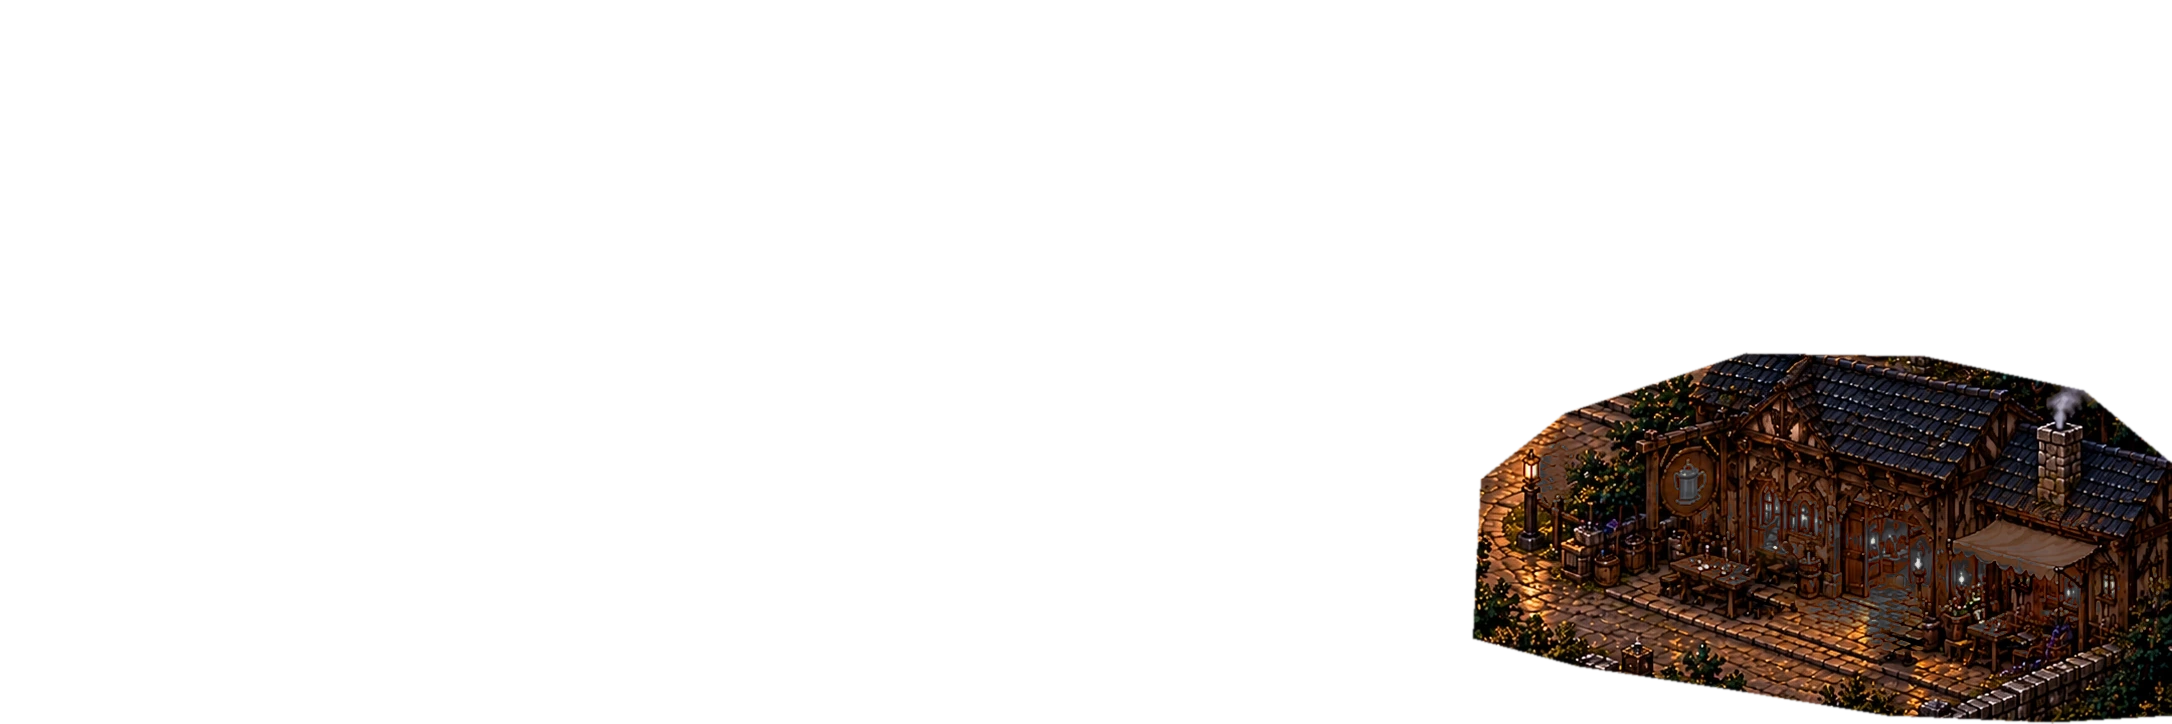
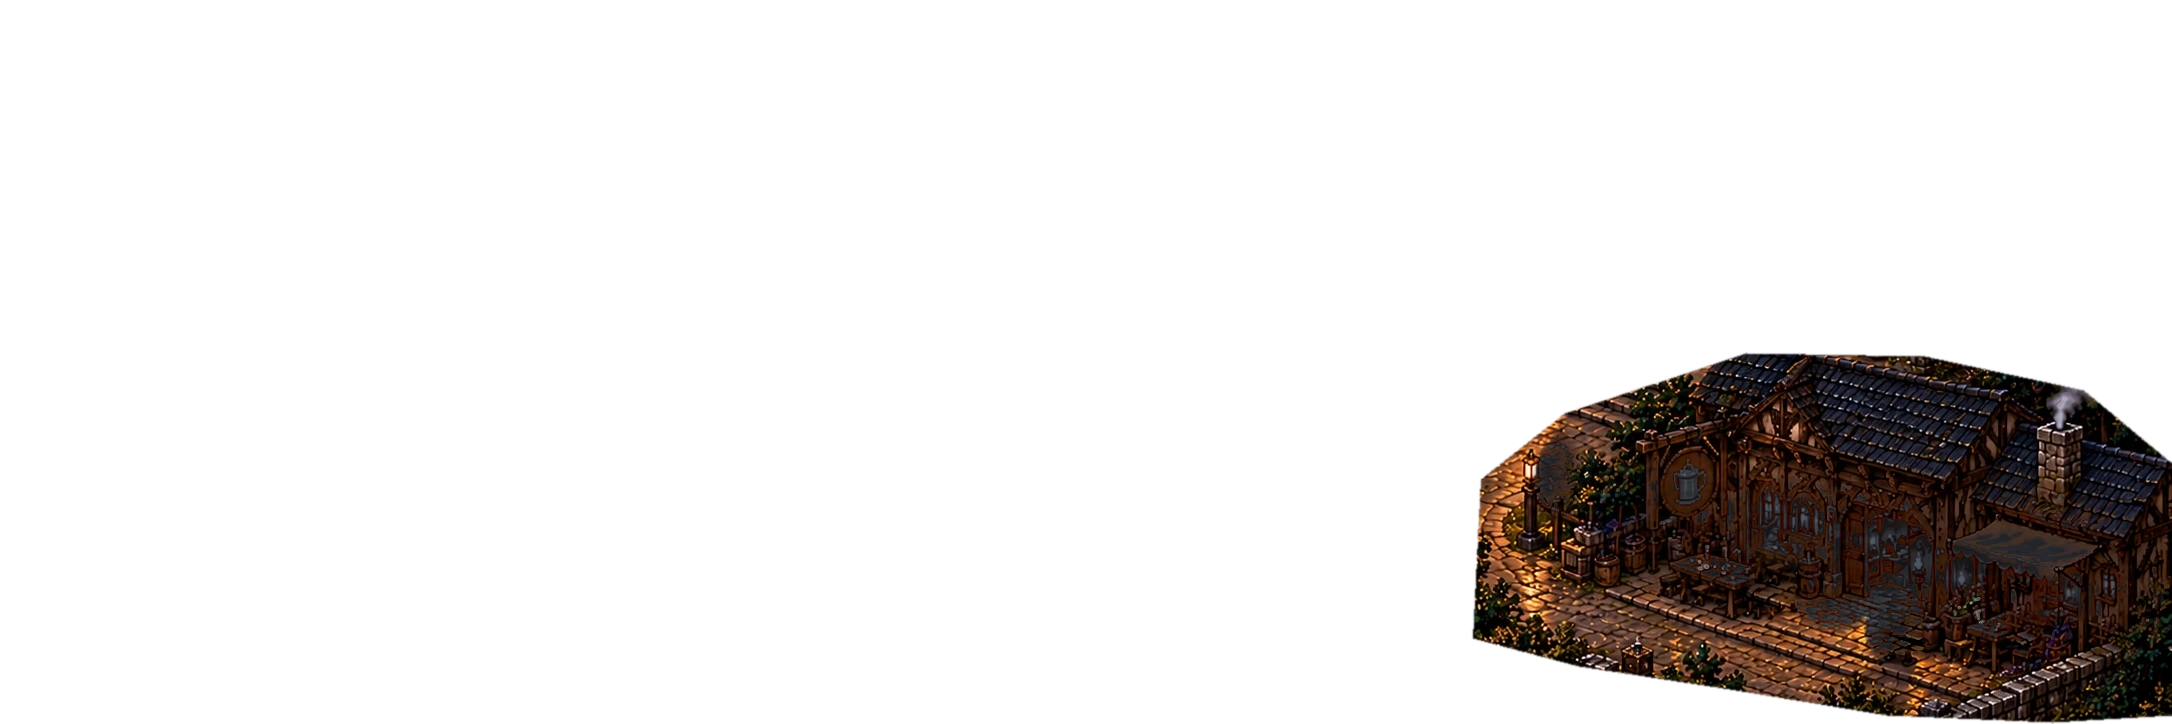
Refuge: unify Active/Vacant building artwork and progression (0.0.130)
* Introduce one shared Active/Vacant building visual state definition

* Render all active/vacant buildings with shared state and authored plate layers

* Extinguish blue/cyan and white emissive lighting through the shared painted vacancy pipeline

* Set up one-shot CI rendering and commit for native building artwork

* Run native vacancy-art regeneration from the shared pipeline

* Validate consistent dormant/active town layers and versioned artwork on mobile

* Rebase generated artwork checkpoint on current branch to avoid overwriting concurrent commits

* Use canonical Active/Vacant names in shared building state

* Apply shared Active/Vacant state to all town door interactions

* Only active buildings receive highlighted hover/focus styling

* Share artwork alignment and dormant layer styles across all town buildings

* Verify progressive unlocks independently switch painted building states

* Document unified town Active/Vacant states, authored art pipeline and acceptance gates

* Bump WyrmForge to 0.0.130 for shared building visual state system

* Document shared active/vacant town visuals in prototype 0.0.130

* Regenerate locked building art against final shared visuals and workflow

* art: checkpoint shared dormant building plates

* Remove one-shot native-art checkpoint workflow after committing generated assets

* Remove glowing Nexus potion stock by reconstructing dormant counter artwork

* Temporarily enable regenerated Nexus prop-removal art checkpoint
[…]

Changed region(s): [[0.7403, 0.6381, 1.0, 0.9116], [0.7095, 0.6077, 0.7403, 0.6989]]

diff --git a/src/Wyrmforge.Presentation.Web/wwwroot/css/town-panorama.css b/src/Wyrmforge.Presentation.Web/wwwroot/css/town-panorama.css
@@ -29,8 +29,8 @@
   pointer-events:auto;-webkit-tap-highlight-color:transparent;
   transition:background-color 120ms ease-out,filter 120ms ease-out;
 }
-.game-shell.refuge-home .town-hotspot[data-town-state="open"]:hover,
-.game-shell.refuge-home .town-hotspot[data-town-state="open"]:focus-visible {
+.game-shell.refuge-home .town-hotspot[data-town-state="active"]:hover,
+.game-shell.refuge-home .town-hotspot[data-town-state="active"]:focus-visible {
   background:rgba(242,184,97,.15);filter:drop-shadow(0 0 10px rgba(242,185,102,.85));
 }
 .game-shell.refuge-home .town-hotspot:focus-visible{outline:3px solid #f1c683;outline-offset:-2px}
@@ -176,17 +176,19 @@ html:has(.refuge-home), body:has(.refuge-home) {
 }
 /* The reopened Forge restores the lit, populated original painting. Identical
    3:1 dimensions keep alignment exact while the corrected vacant version remains the base. */
-.game-shell.refuge-home .town-panorama-open-forge {
-  position:absolute;inset:0;z-index:2;width:100%;height:100%;
-  display:block;object-fit:contain;pointer-events:none;-webkit-user-drag:none;
-  clip-path:polygon(0 42%,33% 42%,33% 100%,0 100%);
-}
-/* Authored transparent vacant building plates at the exact 2172 x 724 base
-   resolution. Only pixels belonging to the selected building are replaced;
-   darkening the panorama with CSS gives a visible black cloud and is forbidden. */
-.game-shell.refuge-home .town-dormant-art {
-  position:absolute;inset:0;z-index:1;display:block;width:100%;height:100%;
+/* One renderer for every building. Asset content, not CSS darkening, controls
+   powered/unpowered lights, people, windows and props. Native 3:1 alignment is
+   identical in both states. Only the Blacksmith needs an active replacement
+   because the base panorama already contains its painted vacant appearance. */
+.game-shell.refuge-home .town-building-layer {
+  position:absolute;inset:0;display:block;width:100%;height:100%;
   object-fit:contain;image-rendering:auto;pointer-events:none;-webkit-user-drag:none;
+  filter:none;backdrop-filter:none;
+}
+.game-shell.refuge-home .town-building-layer[data-building-state="vacant"] { z-index:1; }
+.game-shell.refuge-home .town-building-layer[data-building-state="active"] { z-index:2; }
+.game-shell.refuge-home .town-panorama-open-forge {
+  clip-path:polygon(0 42%,33% 42%,33% 100%,0 100%);
 }
 .game-shell.refuge-home .town-square::after {display:none!important}
 /* Touch can pan across the authentic image; overlays retain their own fixed positions. */

diff --git a/tools/art/build_town_vacancy.py b/tools/art/build_town_vacancy.py
@@ -1,7 +1,9 @@
 #!/usr/bin/env python3
 """Build aligned, transparent dormant building plates for the Refuge town.
 
-Input is the approved 2172x724 panoramic painting. Unlike a black overlay, this
+Input is the approved 2172x724 panoramic painting. The same dormant-light
+conversion is reused for every locked building; per-building boundaries protect
+neighboring architecture and the permanently active World Gate. Unlike a black overlay, this
 pipeline removes figures and lit props from each sealed building and selectively
 extinguishes luminous pixels, keeping neighboring masonry and roads untouched.
 
@@ -29,7 +31,11 @@ PLATES = {
         "emission_zones": [(100, 196, 45, 65), (190, 208, 46, 55), (273, 216, 55, 62),
                            (334, 192, 45, 55), (403, 203, 47, 60), (485, 190, 43, 62),
                            (542, 216, 55, 73), (122, 289, 80, 45), (363, 286, 72, 47),
-                           (510, 294, 92, 46), (630, 280, 44, 41)],
+                           (510, 294, 92, 46), (630, 280, 44, 41),
+                           # Blue and cyan bottles, shop displays and dormant rune sconces.
+                           (150, 306, 65, 45), (260, 295, 70, 55),
+                           (378, 285, 65, 54), (505, 300, 80, 52),
+                           (585, 294, 65, 48)],
         "clone_offsets": [(92, 34), (72, 12)],
         "boundary": [(2, 74), (98, 22), (292, 0), (530, 13), (706, 94),
                      (705, 319), (596, 364), (367, 355), (123, 359), (3, 331)],
@@ -37,6 +43,13 @@ PLATES = {
         "figures": [
             [(400, 255), (429, 249), (442, 285), (436, 313), (393, 322), (389, 285)],
             [(143, 303), (165, 298), (178, 319), (174, 340), (139, 341)],
+        ],
+        # Erase luminous market stock, not just its colour: active potion
+        # silhouettes made this building appear occupied while locked.
+        "inactive_props": [
+            [(202, 260), (226, 244), (252, 246), (272, 265), (267, 287), (204, 296)],
+            [(411, 230), (427, 217), (452, 220), (469, 242), (466, 263), (411, 272)],
+            [(528, 263), (552, 249), (574, 259), (584, 288), (568, 304), (527, 301)],
         ],
         "lamps": [
             (20, 250, 28, 50), (112, 216, 18, 43), (220, 230, 16, 37),
@@ -115,26 +128,48 @@ def dormant_plate(original: np.ndarray, plan: dict) -> Image.Image:
         local = cv2.dilate(local, np.ones((3, 3), np.uint8), iterations=1)
         center = ((x0 + x1) // 2, (y0 + y1) // 2)
         painted_bgr = cv2.seamlessClone(replacement, painted_bgr, local, center, cv2.NORMAL_CLONE)
+
+    # The same prop-removal stage may be supplied by future building plans.
     painted = cv2.cvtColor(painted_bgr, cv2.COLOR_BGR2RGB).astype(np.float32)
 
-    # Extinguish only high-luminance warm or violet light within hand-authored
-    # light-source ellipses. The stonework, tile roof and ambient daylight remain.
+    # Preserve painted table/wares brushwork. Inpainting entire 50px clusters
+    # produces obvious brown holes, so reduce their saturation and brightness
+    # instead: these are dusty, unpowered stock, not missing geometry.
+    if plan.get("inactive_props"):
+        props_mask = np.zeros((h, w), dtype=np.uint8)
+        for polygon in plan["inactive_props"]:
+            cv2.fillPoly(props_mask, [np.asarray(polygon, np.int32)], 255)
+        soft = cv2.GaussianBlur(props_mask.astype(np.float32) / 255, (0, 0), 7) * .92
+        gray = painted[:, :, 0] * .24 + painted[:, :, 1] * .58 + painted[:, :, 2] * .18
+        unpowered = np.stack((gray * .41, gray * .42, gray * .45), axis=-1)
+        painted = painted * (1 - soft[:, :, None]) + unpowered * soft[:, :, None]
+
+    # One universal state conversion for all buildings: extinguish bright
+    # warm/cold/magical emissions in hand-authored local source zones.
+    # Do not darken all pixels in a building or create a transparent black haze.
     yy, xx = np.ogrid[:h, :w]
     source_rgb = painted.copy()
     red, green, blue = source_rgb[:, :, 0], source_rgb[:, :, 1], source_rgb[:, :, 2]
     warm = np.clip((red - green * .92) / 80, 0, 1) * np.clip((green - blue * .9) / 70, 0, 1)
     violet = np.clip((red + blue - green * 2) / 130, 0, 1)
-    luminous = np.clip((np.max(source_rgb, axis=2) - 60) / 135, 0, 1)
+    # Previous art only identified warm/violet emissive pixels. Arcane Nexus
+    # retained living cyan/blue highlights even while the building was locked.
+    blue = np.clip((blue - red * .78) / 75, 0, 1)
+    cyan = np.clip((blue * .65 + green * .65 - red * 1.1) / 110, 0, 1)
+    luminous = np.clip((np.max(source_rgb, axis=2) - 44) / 125, 0, 1)
     light_mask = np.zeros((h, w), dtype=np.float32)
     for x, y, rx, ry in plan["lamps"] + plan["emission_zones"]:
         r2 = ((xx - x) / rx) ** 2 + ((yy - y) / ry) ** 2
         light_mask = np.maximum(light_mask, np.clip(1.0 - r2, 0, 1) ** 0.7)
-    # A sleeping building may retain readable masonry, never emitting bright
-    # orange windows, magical purple runes or lit trading stalls.
-    suppression = np.clip(light_mask * luminous * np.maximum(warm, violet * .85) * 1.75, 0, .96)
-    # Preserve the painting's texture; only the emissive chroma and intensity go.
-    gray = (source_rgb[:, :, 0] * .24 + source_rgb[:, :, 1] * .58 + source_rgb[:, :, 2] * .18)
-    neutral = np.stack((gray * .43, gray * .46, gray * .51), axis=-1)
+    # Shared across the Nexus, Codex and Hall: unlike a global grayscale wash,
+    # emissive suppression is evaluated only at actual painted light sources.
+    # Dark, unpowered windows and worktables have no radiant highlight even
+    # when the source is white rather than warm/violet/blue. Keep original
+    # painted masonry, geometry, signs and neighboring buildings intact.
+    chroma = np.maximum.reduce([warm, violet * .9, blue, cyan])
+    suppression = np.clip(light_mask * luminous * (.42 + chroma * 2.35), 0, .97)
+    gray = source_rgb[:, :, 0] * .24 + source_rgb[:, :, 1] * .58 + source_rgb[:, :, 2] * .18
+    neutral = np.stack((gray * .30, gray * .33, gray * .39), axis=-1)
     painted = np.clip(painted * (1 - suppression[:, :, None]) + neutral * suppression[:, :, None], 0, 255)
     cutout = Image.new("L", SIZE, 0)
     drawer = ImageDraw.Draw(cutout)

diff --git a/tests/Wyrmforge.Browser.Tests/WyrmforgeBrowserTests.cs b/tests/Wyrmforge.Browser.Tests/WyrmforgeBrowserTests.cs
@@ -381,6 +381,10 @@ public sealed class WyrmforgeBrowserTests : PageTest
         await Expect(Page.Locator("nav.menu-actions button").Filter(new() { HasText = "Arcane Nexus" })).ToBeEnabledAsync();
         await Expect(Page.Locator("nav.menu-actions button").Filter(new() { HasText = "Codex" })).ToBeEnabledAsync();
         await Expect(Page.Locator("nav.menu-actions button").Filter(new() { HasText = "Forge" })).ToHaveAttributeAsync("data-town-state", "vacant");
+        await Expect(Page.Locator(".town-building-layer[data-town-building='build']")).ToHaveCountAsync(0);
+        await Expect(Page.Locator(".town-building-layer[data-town-building='codex']")).ToHaveCountAsync(0);
+        await Expect(Page.Locator(".town-building-layer[data-town-building='legends'][data-building-state='vacant']")).ToHaveCountAsync(1);
+        await Expect(Page.Locator(".town-panorama-open-forge")).ToHaveCountAsync(0);
         await Page.GetByRole(AriaRole.Button, new() { Name = "Allocate unspent Arcane points" }).ClickAsync();
         await Expect(Page.GetByRole(AriaRole.Heading, new() { Name = "Arcane Nexus", Exact = true })).ToBeVisibleAsync();
         await Expect(Page.Locator(".build-points strong")).ToHaveTextAsync("1");
@@ -1720,12 +1724,19 @@ public sealed class WyrmforgeBrowserTests : PageTest
         await Expect(Page.Locator(".town-dormant-art--codex")).ToHaveCountAsync(1);
         await Expect(Page.Locator(".town-dormant-art--legends")).ToHaveCountAsync(1);
         await Expect(Page.Locator(".town-vacancy")).ToHaveCountAsync(0);
+        var dormantLayers = Page.Locator(".town-building-layer[data-building-state='vacant']");
+        await Expect(dormantLayers).ToHaveCountAsync(3);
+        await Expect(Page.Locator(".town-building-layer[data-building-state='active']")).ToHaveCountAsync(0);
+        await Expect(Page.Locator(".town-building-layer[data-town-building='build']")).ToHaveCountAsync(1);
+        Assert.IsTrue(await dormantLayers.First.EvaluateAsync<bool>(
+            "element => getComputedStyle(element).filter === 'none' && " +
+            "getComputedStyle(element).backdropFilter === 'none'"));
         Assert.IsTrue(await Page.Locator(".town-dormant-art").First.EvaluateAsync<bool>(
             "element => element.complete && element.naturalWidth === 2172 && element.naturalHeight === 724 && " +
             "getComputedStyle(element).filter === 'none' && getComputedStyle(element).backdropFilter === 'none'"));
-        await Expect(Page.Locator(".town-dormant-art--build")).ToHaveAttributeAsync("src", "art/town-vacant-nexus.webp?v=127");
-        await Expect(Page.Locator(".town-dormant-art--codex")).ToHaveAttributeAsync("src", "art/town-vacant-codex.webp?v=127");
-        await Expect(Page.Locator(".town-dormant-art--legends")).ToHaveAttributeAsync("src", "art/town-vacant-legends.webp?v=127");
+        await Expect(Page.Locator(".town-dormant-art--build")).ToHaveAttributeAsync("src", "art/town-vacant-nexus.webp?v=130");
+        await Expect(Page.Locator(".town-dormant-art--codex")).ToHaveAttributeAsync("src", "art/town-vacant-codex.webp?v=130");
+        await Expect(Page.Locator(".town-dormant-art--legends")).ToHaveAttributeAsync("src", "art/town-vacant-legends.webp?v=130");
 
         await Page.GetByRole(AriaRole.Button, new() { Name = "BEGIN FIRST HUNT" }).ClickAsync();
         await ContinueThroughWorldGateAsync();
@@ -1748,6 +1759,8 @@ public sealed class WyrmforgeBrowserTests : PageTest
         await OpenAsync();
         await Expect(Page.Locator(".town-dormant-art")).ToHaveCountAsync(0);
         await Expect(Page.Locator(".town-panorama-open-forge")).ToHaveCountAsync(1);
+        await Expect(Page.Locator(".town-building-layer[data-building-state='vacant']")).ToHaveCountAsync(0);
+        await Expect(Page.Locator(".town-building-layer[data-town-building='forge'][data-building-state='active']")).ToHaveCountAsync(1);
         await Expect(Page.Locator(".town-hotspot--build")).ToBeEnabledAsync();
         await Expect(Page.Locator(".town-hotspot--forge")).ToBeEnabledAsync();
         await Expect(Page.Locator(".town-hotspot--codex")).ToBeEnabledAsync();

diff --git a/src/Wyrmforge.Presentation.Web/Features/Forge/TownBuildingVisuals.cs b/src/Wyrmforge.Presentation.Web/Features/Forge/TownBuildingVisuals.cs
@@ -1,0 +1,40 @@
+namespace Wyrmforge.Presentation.Web.Features.Forge;
+
+/// <summary>
+/// Visual state is derived from the same unlock flags as town interaction.
+/// Vacant artwork is baked at native panorama resolution; never shade the entire
+/// screen or the building with a CSS black veil.
+/// </summary>
+internal enum TownBuildingState { Active, Vacant }
+
+internal sealed record TownBuildingVisual(string Key, TownBuildingState State, string? Image, string? CssClass)
+{
+    public string StateName => TownBuildingVisuals.StateName(State == TownBuildingState.Active);
+}
+
+internal static class TownBuildingVisuals
+{
+    // Update after regenerating and committing the pre-painted dormant plates.
+    internal const string AssetVersion = "130";
+    internal static string StateName(bool unlocked) => unlocked ? "active" : "vacant";
+
+    internal static IReadOnlyList<TownBuildingVisual> Resolve(bool nexusUnlocked, bool forgeUnlocked, bool codexUnlocked, bool hallUnlocked)
+    {
+        return
+        [
+            new("build", nexusUnlocked ? TownBuildingState.Active : TownBuildingState.Vacant,
+                nexusUnlocked ? null : "town-vacant-nexus.webp", nexusUnlocked ? null : "town-dormant-art--build"),
+
+            // The blacksmith is the inverse: the permanent base painting is already vacant.
+            // Its original inhabited artwork is restored only after Essence unlocks the Forge.
+            new("forge", forgeUnlocked ? TownBuildingState.Active : TownBuildingState.Vacant,
+                forgeUnlocked ? "refuge-town-panorama.png" : null, forgeUnlocked ? "town-panorama-open-forge" : null),
+
+            new("codex", codexUnlocked ? TownBuildingState.Active : TownBuildingState.Vacant,
+                codexUnlocked ? null : "town-vacant-codex.webp", codexUnlocked ? null : "town-dormant-art--codex"),
+
+            new("legends", hallUnlocked ? TownBuildingState.Active : TownBuildingState.Vacant,
+                hallUnlocked ? null : "town-vacant-legends.webp", hallUnlocked ? null : "town-dormant-art--legends"),
+        ];
+    }
+}

diff --git a/docs/art/shared-building-states-2026-10-19.md b/docs/art/shared-building-states-2026-10-19.md
@@ -1,0 +1,34 @@
+# Refuge buildings — shared Active / Vacant artwork states (19 October 2026)
+
+## Scope
+
+Implement the approved two-state town art *in the real Blazor game*, not as a detached screenshot. The common contract is `TownBuildingVisuals.Resolve` in `Features/Forge/TownBuildingVisuals.cs`. A building independently has either **Active** or **Vacant** according to its existing authoritative unlock predicate. Touch targets and the lock notice follow the same flags.
+
+| Building | Vacant image | Active image | Unlock |
+| --- | --- | --- | --- |
+| Arcane Nexus | `town-vacant-nexus.webp` | base town panorama | complete first hunt |
+| Blacksmith | existing vacant base panorama | clipped original `refuge-town-panorama.png` | secure first Essence |
+| Codex | `town-vacant-codex.webp` | base town panorama | complete first hunt |
+| Hall of Fame | `town-vacant-legends.webp` | base town panorama | complete two hunts |
+| World Gate | never vacant | unchanged base panorama | always active |
+
+The images are pixel-aligned, full-resolution 2172×724 source art layers and use the shared `town-building-layer` CSS, with a single state attribute. The original architecture, banners, camera position and walkable public square do not change. No global black, gray, blurred or backdrop-filter layer may be introduced.
+
+## Generating a truly unpowered building
+
+`tools/art/build_town_vacancy.py` is the single authoring implementation for all three dormant plates. Every plan supplies an authored building outline and local light/figure coordinates; **the algorithm is shared**. It performs neighboring-paint texture transfer for characters, and removes high-intensity orange, violet, white, **blue and cyan** emissive highlights from lamps, windows, sigils and stall props. It preserves the underlying brushwork. When a building becomes active, its vacant painted layer is no longer rendered; no runtime tint or per-frame Canvas CPU work occurs.
+
+To regenerate after editing source artwork: `python -m pip install Pillow numpy opencv-python-headless`, then `python tools/art/build_town_vacancy.py`. Commit the three generated `wwwroot/art/town-vacant-*.webp` files and the combined art proof at `docs/art/previews/refuge-closed-2026-10-19.webp`. Keep the artist-facing code and shipped binary files together.
+
+The desired vacant treatment matches the user's approved phone reference: no magic bottles radiating light, no fire or worker, closed/inert facade and darkened light sources, without losing architectural readability.
+
+## Validation
+
+- Both starting and veteran progression states must have the correct independently switched layers, with the same `active / vacant` semantics for hotspots.
+- A locked location remains tappable **only to explain the unlocking requirement**, with no door-open sound, navigation or magic glow.
+- Every dormant plate has the native panorama dimensions and alpha outside its building. World Gate and other buildings are never dimmed by a neighboring plate.
+- Capture portrait 320px / 390px views of all three town slices and evaluate the dormant/active transitions. Native iPhone Safari acceptance is still a human visual checkpoint; browser CI alone does not certify the physical device.
+
+### Delivery record
+
+Feature branch: `feature/shared-town-building-visual-states`; version 0.0.130. The art outputs and workflow evidence must be checked before merging to main.

diff --git a/README.md b/README.md
@@ -1,5 +1,12 @@
 # Wyrmforge
 
+## Prototype 0.0.130 — Unified active and vacant town buildings
+
+- All locked buildings use the same `Active / Vacant` rendering contract driven by their existing progression unlocks. Blacksmith, Nexus, Codex and Hall of Fame switch independently.
+- The painted dormant-art generator now suppresses cyan/blue magic alongside white, violet and warm lamps/windows; people and powered props are removed from individual building layers, **never via a CSS black haze**.
+- The World Gate remains permanently active; tapping a vacant building still explains the unlock requirement without opening it.
+- [Art pipeline and acceptance notes](docs/art/shared-building-states-2026-10-19.md). Physical iPhone Safari acceptance is still required.
+
 ## Prototype 0.0.129 — Vacant building interaction feedback
 
 - Vacant Arcane Nexus, Blacksmith, Codex and Hall of Fame buildings still use their authentic dark, unoccupied paintings.
